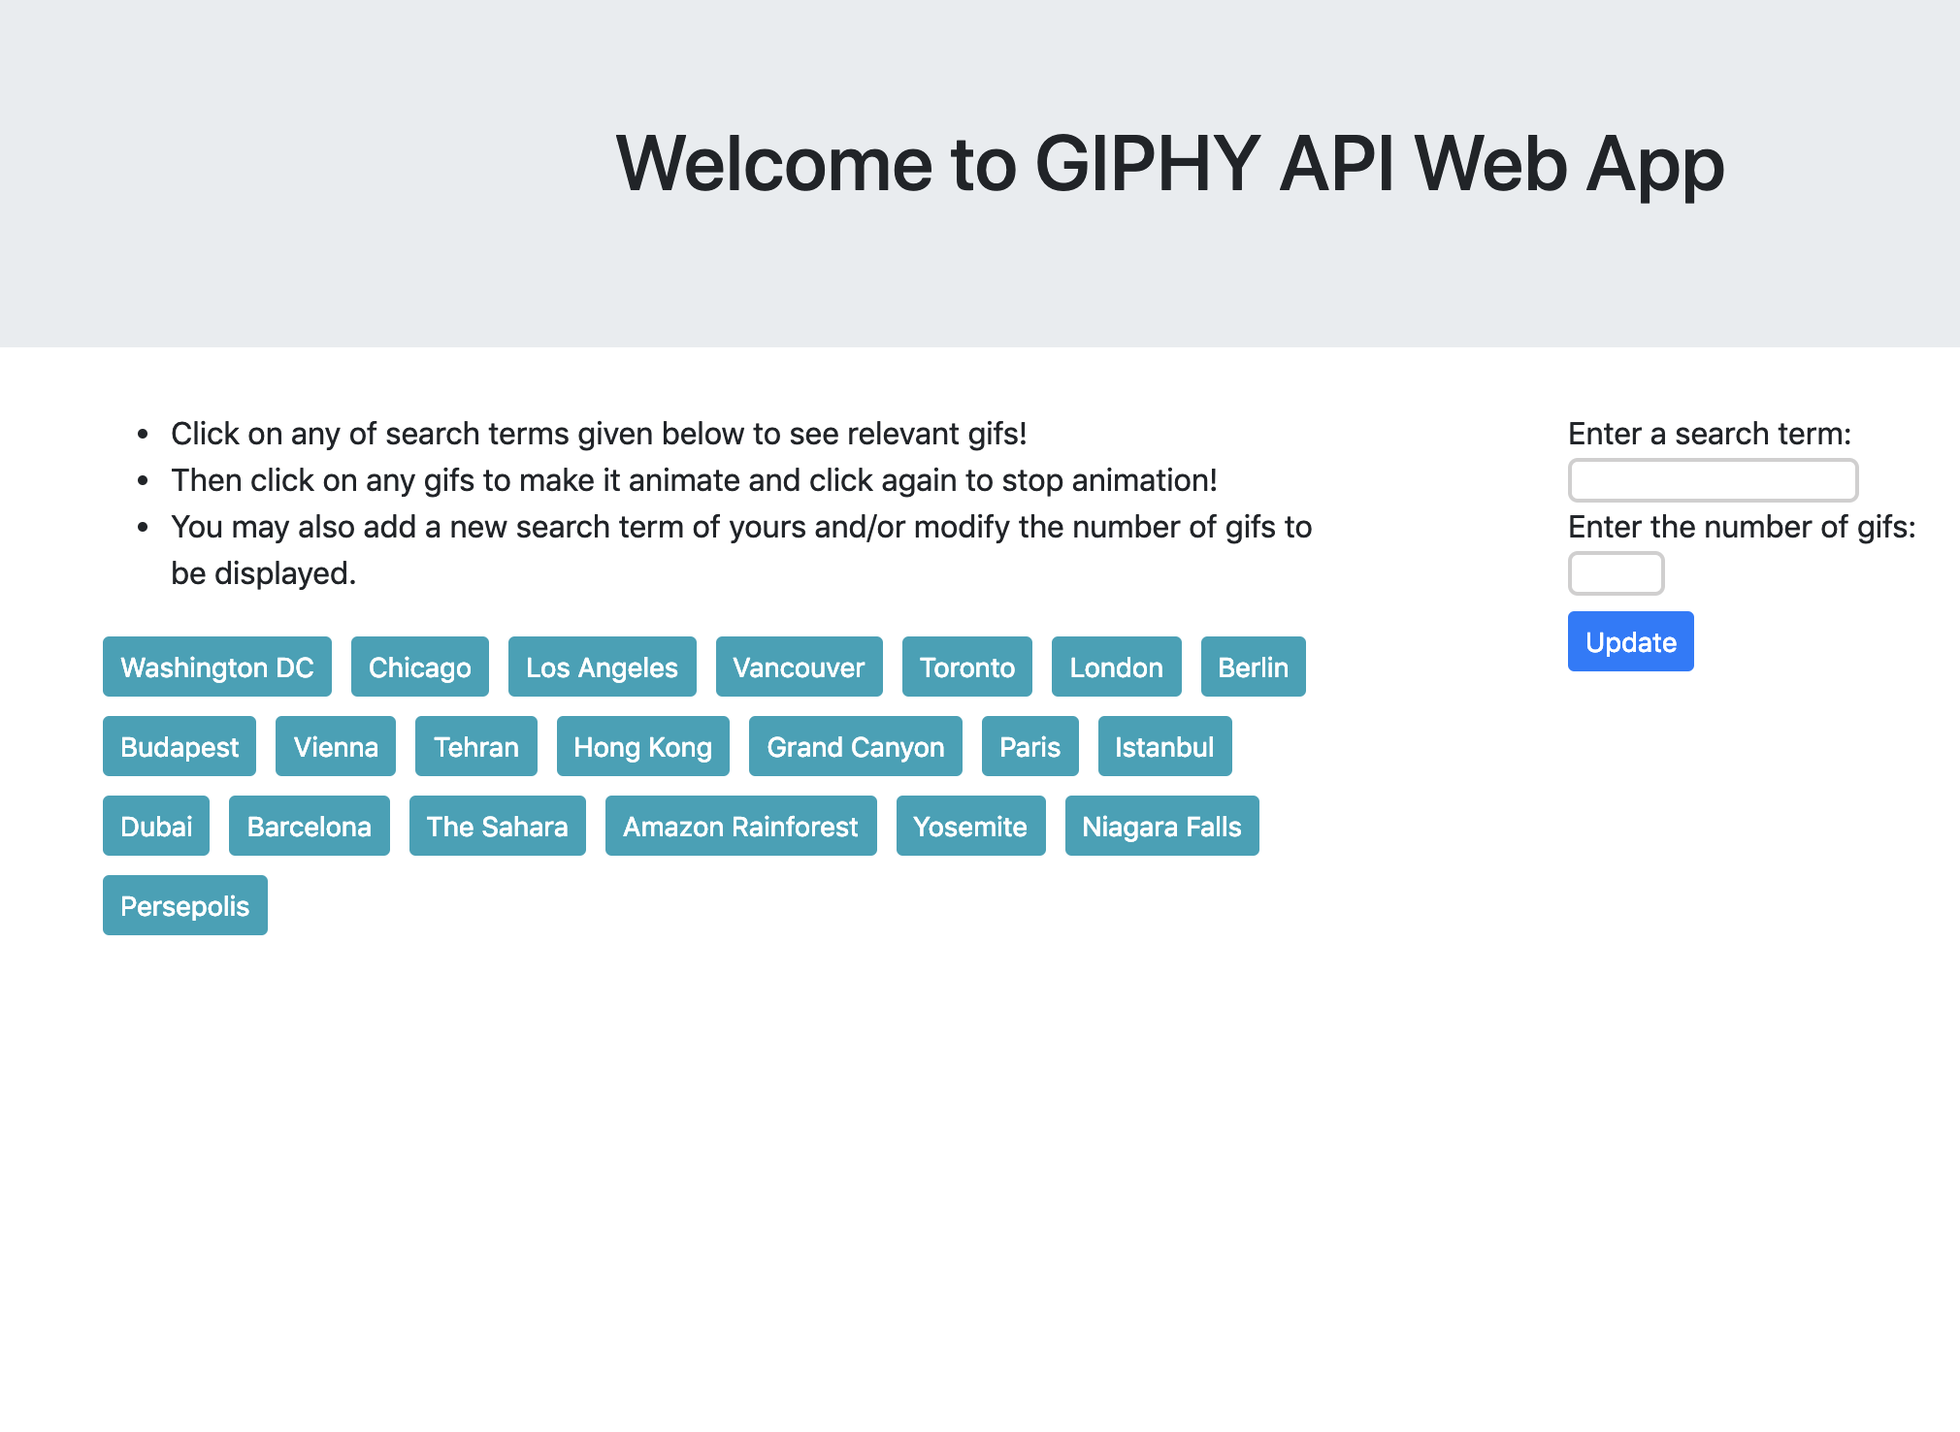
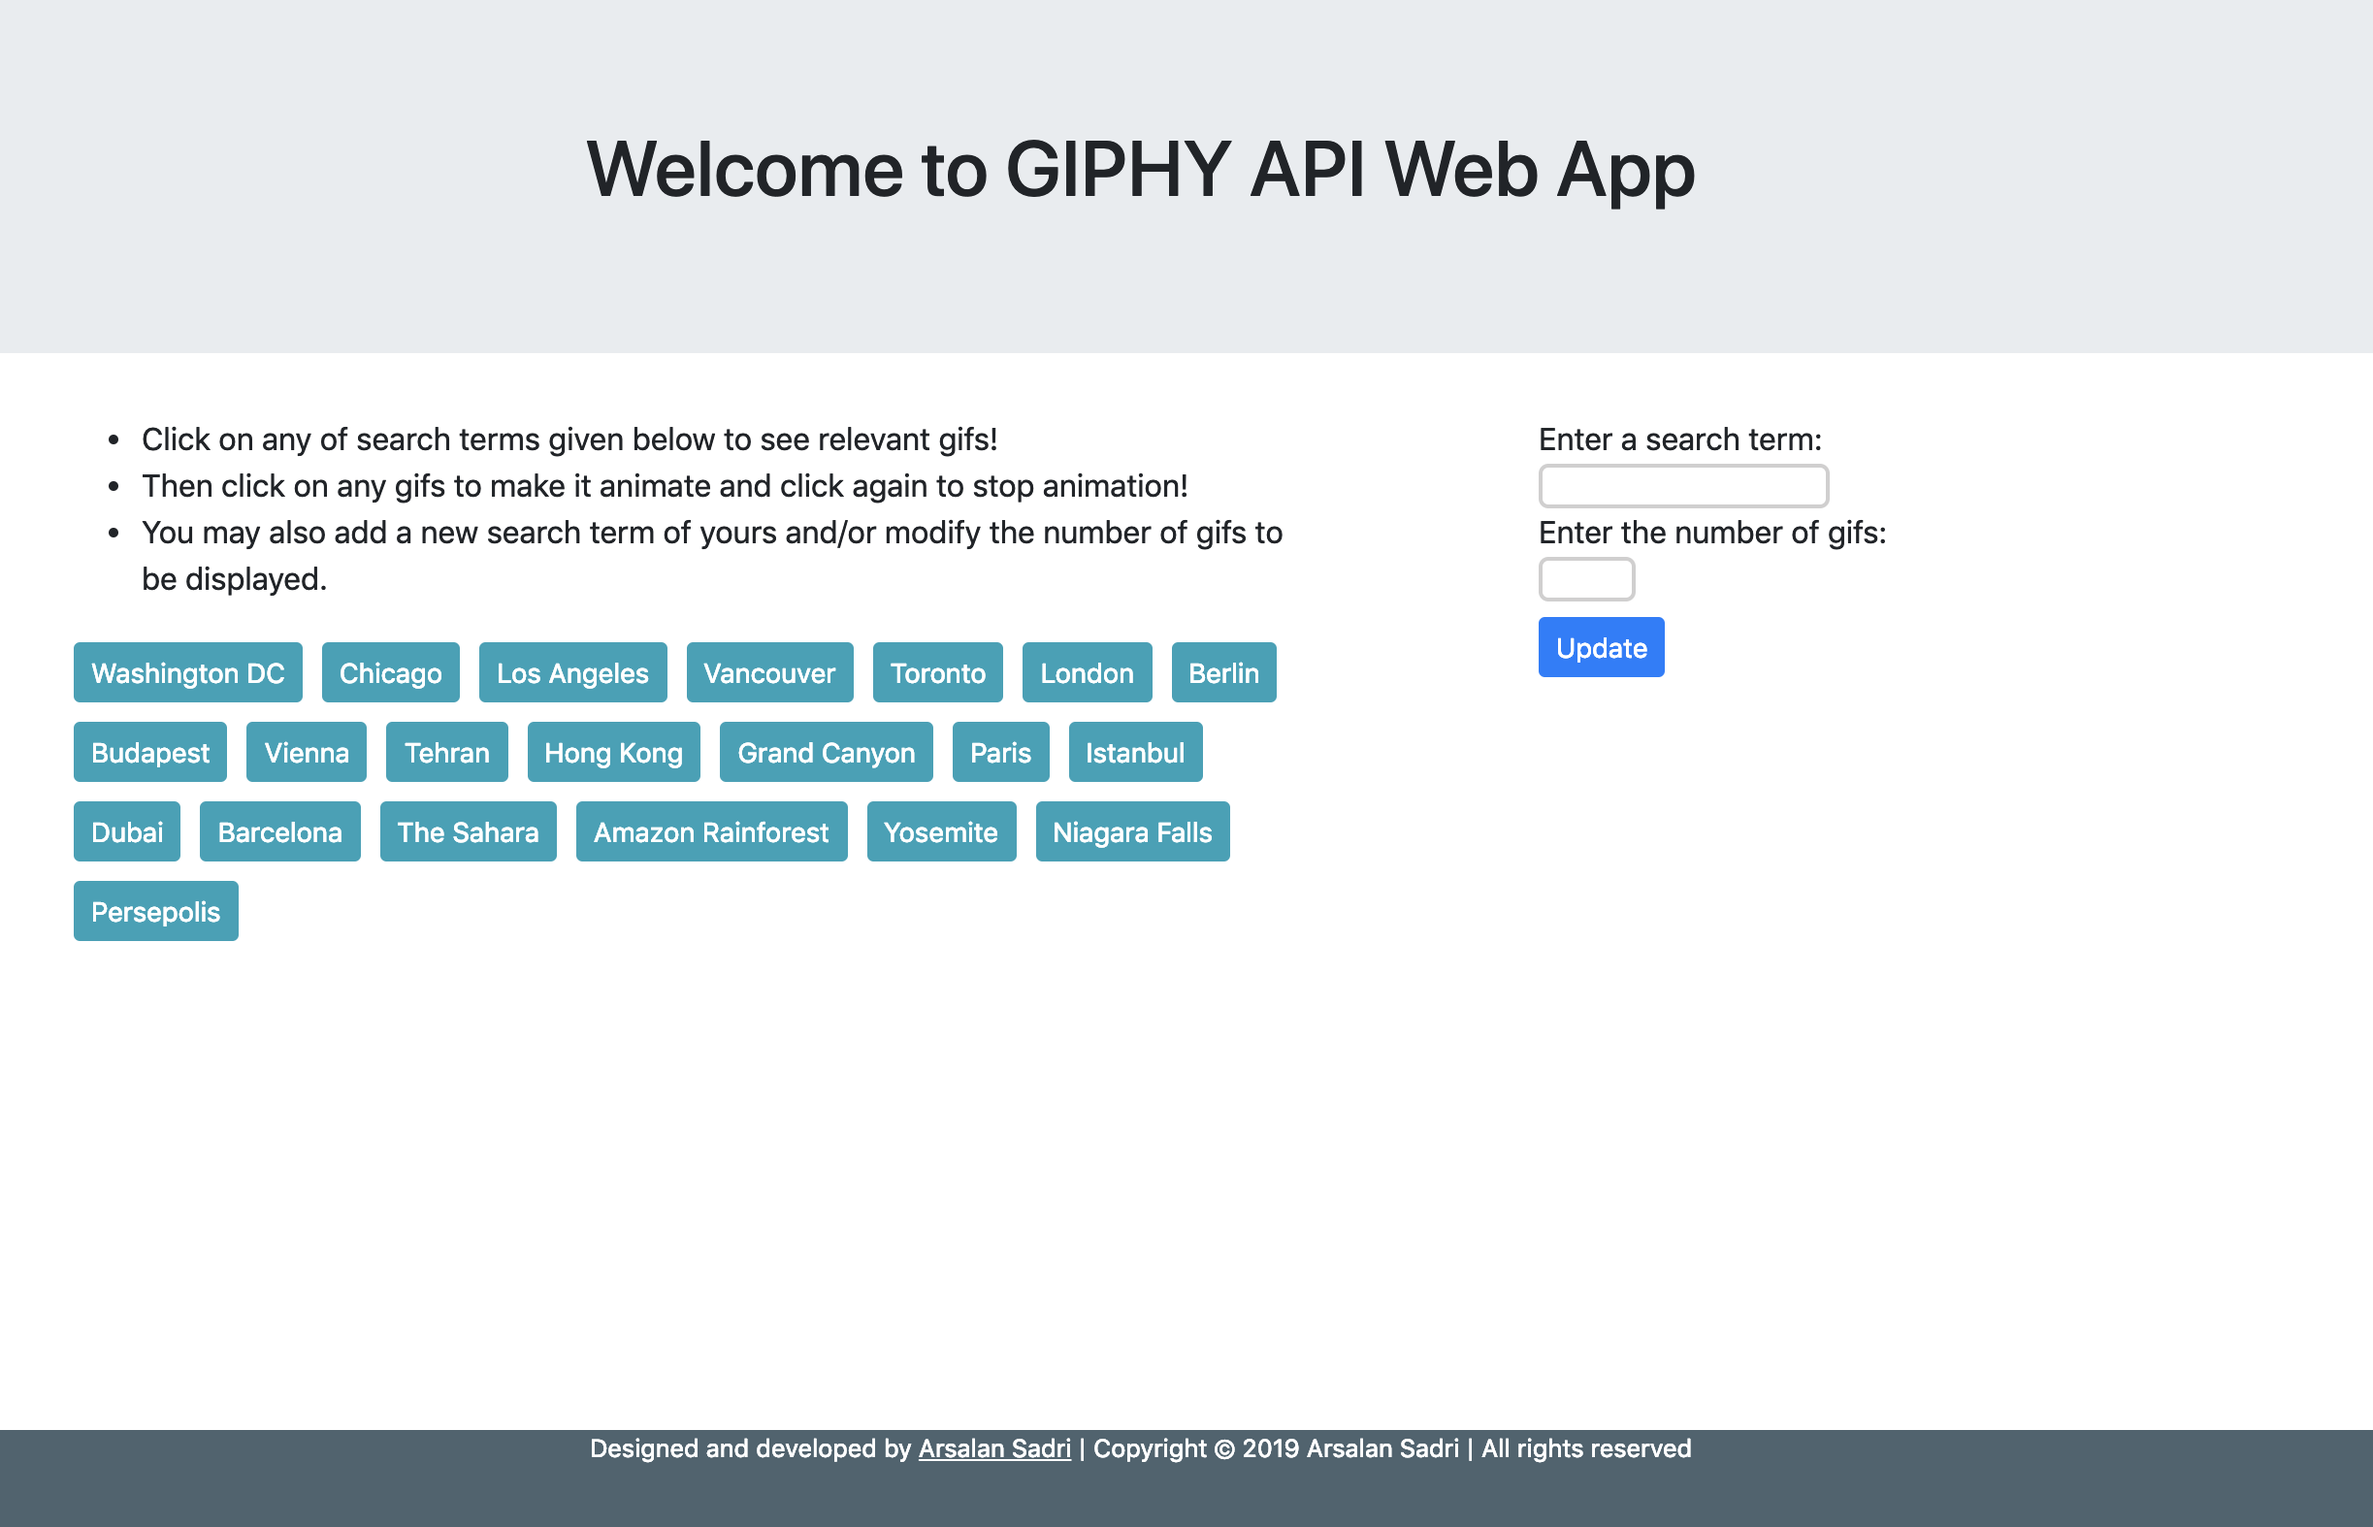
Footer correction

diff --git a/index.html b/index.html
@@ -44,7 +44,7 @@
       <h1>Welcome to GIPHY API Web App</h1>
     </div>
 
-    <div class="container mb-5">
+    <div class="container pb-5">
       <div class="row mb-5">
         <!-- ********** TOPICS COL ********** -->
         <div class="col-md-7">

diff --git a/assets/css/style.css b/assets/css/style.css
@@ -35,5 +35,5 @@ input[name="search-term"] {
 
 /* MAKING THE FOOTER STICK AT THE BOTTOM */
 .container {
-  min-height: calc(100vh - (184px + 50px));
+  min-height: calc(100vh - (184px + 32px + 50px));
 }
